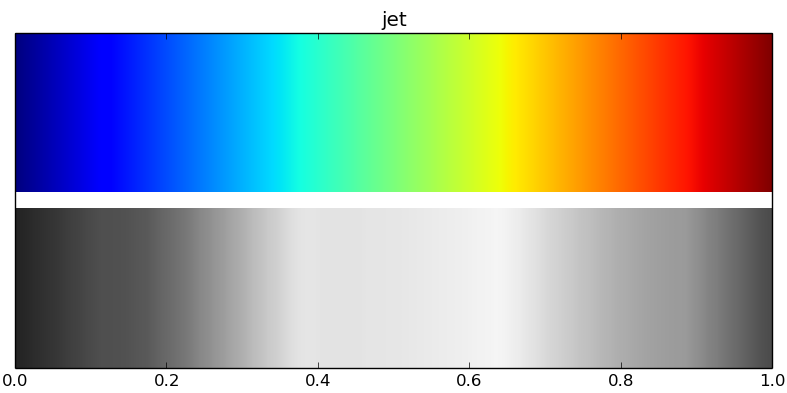
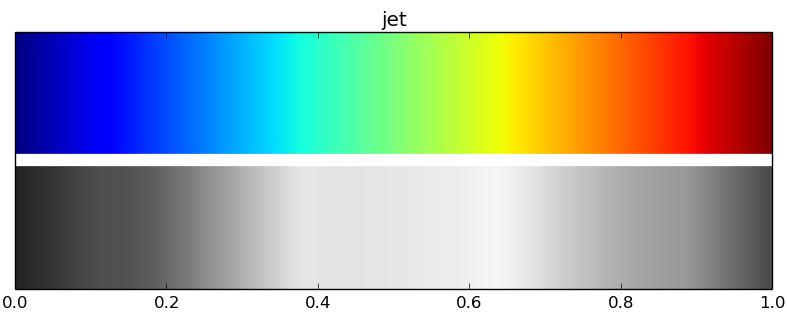
[docs] fixed color plot sizes

Changed region(s): [[0.0, 0.0287, 1.0, 0.1146], [0.0, 0.9172, 1.0, 1.0], [0.0305, 0.4873, 0.9759, 0.5159]]

diff --git a/docs/figures/colors.py b/docs/figures/colors.py
@@ -132,7 +132,7 @@ def plotcomparison_figure():
 def plotcolormap_figure():
     """ Generate a figure demonstrating the plot_colormap() function.
     """
-    fig, ax = plt.subplots(cmsize=(20.0, 10.0))
+    fig, ax = plt.subplots(cmsize=(20.0, 8.0))
     fig.subplots_adjust(leftm=1.5, rightm=1.5, topm=2, bottomm=1.5)
     plot_colormap(ax, 'jet', True)
     fig.savefig('colors-plotcolormap.png')
